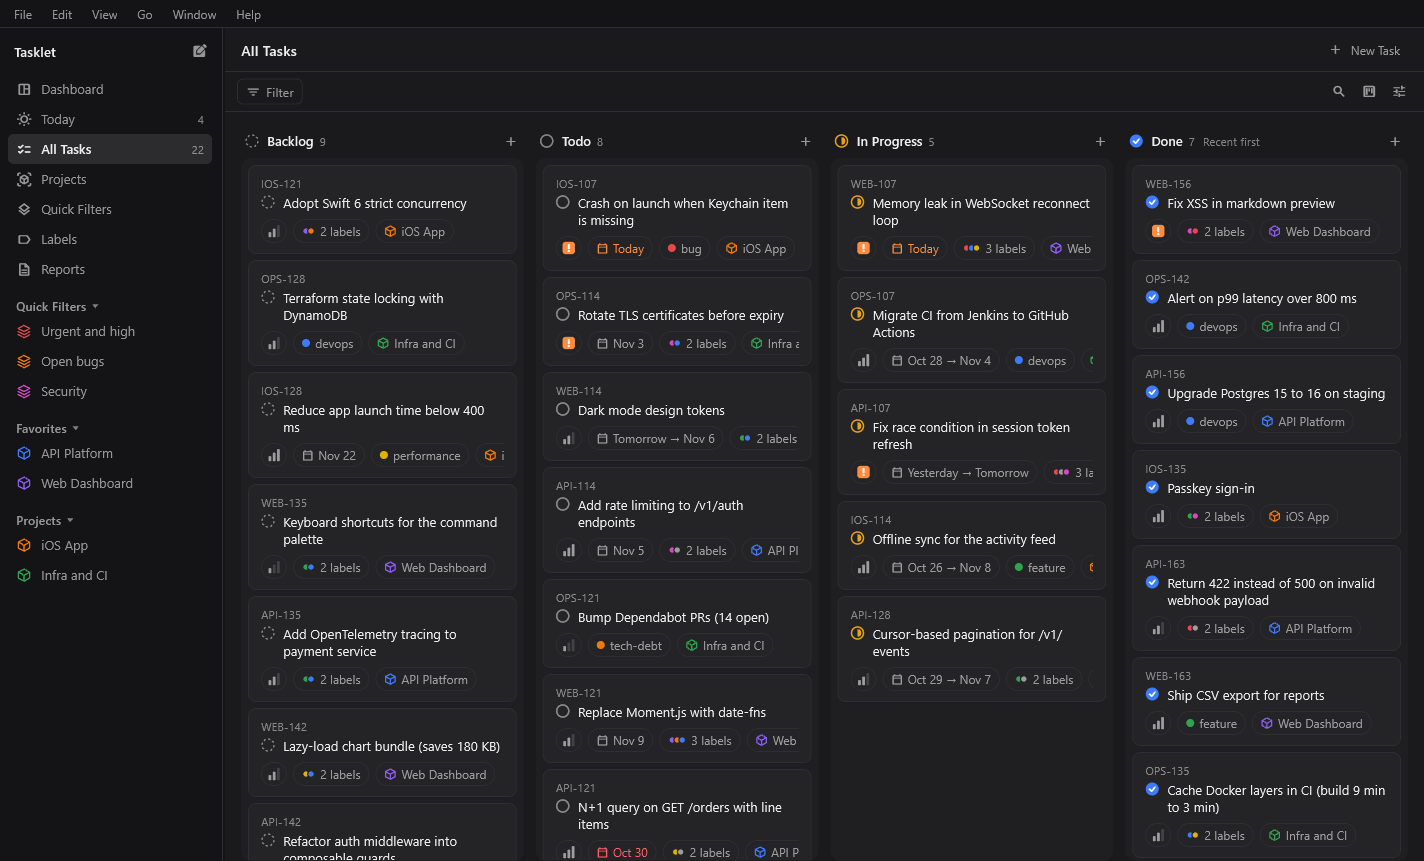
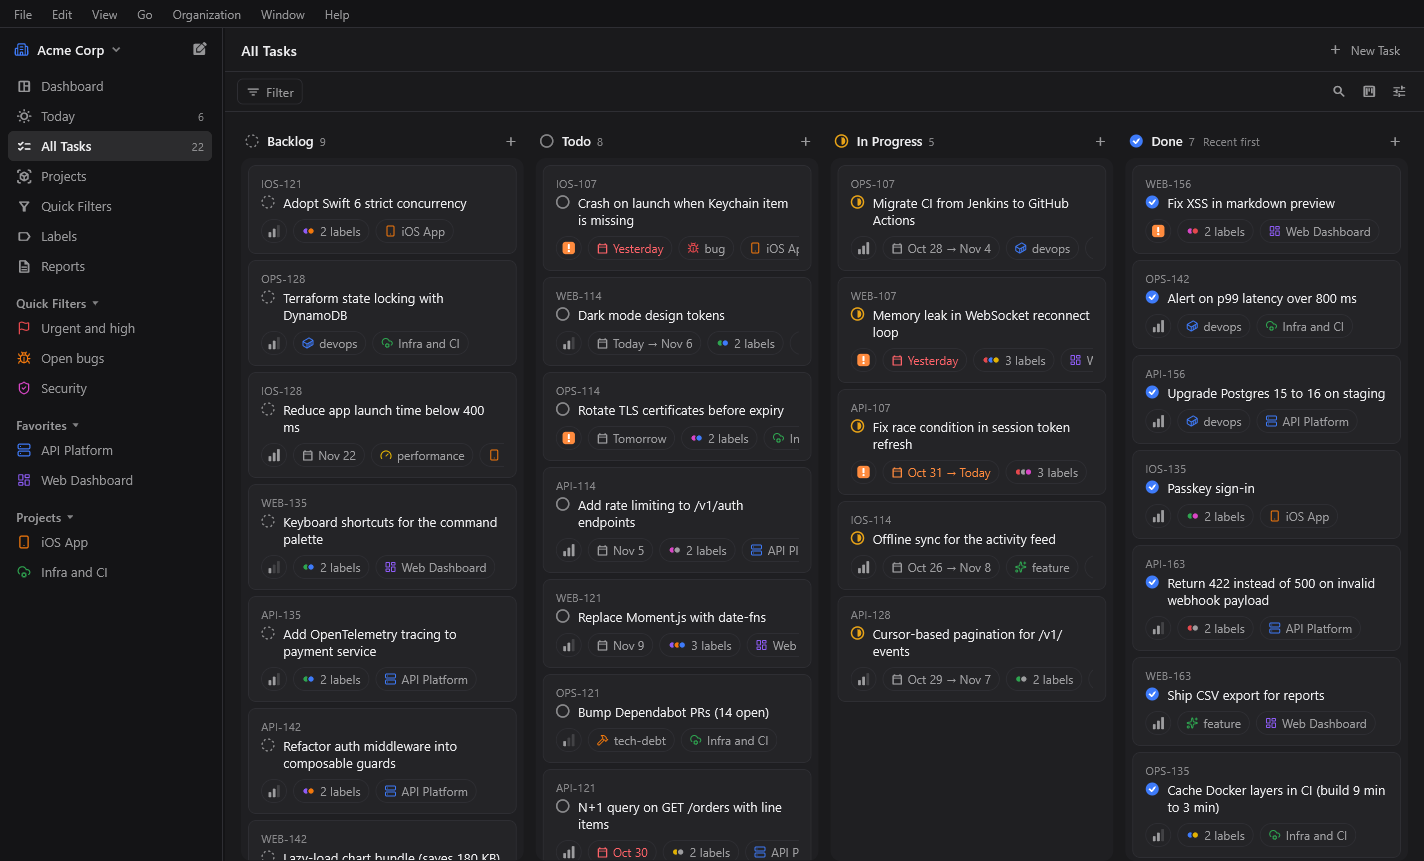
README screenshots and docs for 1.1
New screenshots from a demo workspace with project, label and quick-filter
icons: dashboard, All Tasks board, task panel, light list layout, New Task and
Reports, plus the organization menu and the icon picker. The README mentions
organizations in the intro, shows the new screenshots, the Organizations
settings tab, the tool/ folder and Lucide. DESIGN_SYSTEM lists 16 colors, the
glyph widgets and the icon picker instead of the removed color grid;
SYSTEM_DESIGN adds organizations and icons to its entity table; ROADMAP gets a
1.1 section and what's next.

diff --git a/README.md b/README.md
@@ -17,7 +17,7 @@
 </p>
 
 <p align="center">
-  <img src="docs/screenshots/board.png" alt="Tasklet board with Backlog, Todo, In Progress and Done columns" width="900">
+  <img src="docs/screenshots/board.png" alt="Tasklet All Tasks board with Backlog, Todo, In Progress and Done columns, project and label icons, and the organization switcher in the sidebar" width="900">
 </p>
 
 ---
@@ -26,7 +26,8 @@
 
 Tasklet is a single-player task tracker inspired by the speed and look of tools like Linear, but intentionally
 simpler: no teams, no assignees, no accounts. Everything you create (tasks, projects, labels and quick filters) is stored
-as plain JSON files in a folder on your computer.
+as plain JSON files in a folder on your computer. Keep separate folders as **organizations** (your employer, freelance
+clients, open source) and switch between them in one click.
 
 Put that folder inside OneDrive, Dropbox, Google Drive, iCloud Drive or Syncthing, and your tasks follow you between
 computers without any Tasklet server. If you stop using Tasklet one day, your data is still readable text.
@@ -42,6 +43,8 @@ planned.
 | **Dashboard:** what's overdue, due today and coming up, plus what you finished. | **Detail panel:** every property as a chip; title and description save as you type. |
 | ![Project list layout in the light theme with collapsible status sections](docs/screenshots/list-light.png) | ![New Task dialog with status, priority, dates, labels and project chips](docs/screenshots/new-task.png) |
 | **List layout and light theme:** compact rows grouped by status. | **New Task (Ctrl+N):** type a title, set properties with chips, press Enter. |
+| ![Organization menu listing Acme Corp, Freelance and Open Source with Ctrl+Alt shortcuts, plus New, Open Existing, Edit, Export and Import](docs/screenshots/organizations.png) | ![Icon picker with search, 16 colors and project-related icons grouped by category](docs/screenshots/icon-picker.png) |
+| **Organizations:** each one is its own folder; switch at the top of the sidebar or with Ctrl+Alt+1 … 9. | **Icons and colors:** about 640 project-related icons and 16 colors for projects, labels and quick filters. |
 | ![Export Report dialog with chart preview by status, priority and project](docs/screenshots/reports.png) | |
 | **Reports:** preview charts, then export a prompt for any AI assistant. | |
 
@@ -99,7 +102,7 @@ anywhere.
 ### Make it yours
 - Light, dark or automatic theme.
 - Reorder or hide sidebar items (Settings → Sidebar).
-- A separate Settings window with General, Sidebar, Notifications and Data tabs.
+- A separate Settings window with General, Sidebar, Notifications and Organizations tabs.
 
 ## Download and install
 
@@ -204,16 +207,18 @@ lib/
   data/       the only code that touches files: workspace store, save queue,
               folder watcher, device settings
   state/      app state with Riverpod: workspace controller, boards, clock, undo, reminders
-  ui/         theme, icons, sidebar, board and list, task dialog and panel, pages,
-              settings window
+  ui/         theme, glyphs and the icon catalog, sidebar and organization switcher, board and
+              list, task dialog and panel, pages, settings window
   platform/   menus and shortcuts, windows, tray, notifications, Recycle Bin
-test/         unit tests (core, data) and widget tests
-docs/         SPEC.md (product specification), DECISIONS.md, ROADMAP.md
+test/         unit tests (core, data, state) and widget tests
+tool/         benchmark (tool/bench) and the icon catalog generator (tool/icons)
+docs/         SPEC.md (product specification), DECISIONS.md, ROADMAP.md, DESIGN_SYSTEM.md,
+              SYSTEM_DESIGN.md, PERFORMANCE.md
 installer/    Inno Setup script for the Windows installer
 ```
 
 **Built with:** Flutter, Riverpod, go_router, window_manager, desktop_multi_window, tray_manager,
-flutter_local_notifications, file_picker and watcher.
+flutter_local_notifications, file_picker, watcher and [Lucide](https://lucide.dev) icons.
 
 ## Roadmap
 

diff --git a/docs/DESIGN_SYSTEM.md b/docs/DESIGN_SYSTEM.md
@@ -19,7 +19,7 @@ Read with `Tokens.of(context)`. Never write `Color(0x…)` outside `theme.dart` 
 | `tertiary` | meta text, placeholders, idle icons, disabled items |
 | `accent` | the one action color: primary buttons, focus, Done |
 | `danger`, `warning`, `success` | destructive actions, warnings, confirmations |
-| `named(TaskletColor)` | the 8 user colors for projects, labels and quick filters: dots, icons and fills, never body text |
+| `named(TaskletColor)` | the 16 user colors for projects, labels, quick filters and organizations: glyphs, dots and fills, never body text; each reaches 3:1 on every surface (darker shades in the light theme where needed) |
 
 **Contrast floors** (checked by `test/ui/design_system_test.dart` on every surface, both themes): primary ≥ 7:1,
 secondary ≥ 4.5:1, tertiary ≥ 3:1. Use tertiary only for text that is not needed to understand the screen.
@@ -43,6 +43,9 @@ These are the values in use; new code picks from them (a token group is planned,
 - **Radius:** 6 for buttons and controls, 8 for cards, rows and panels, 12 for the chip/pill shell.
 - **Heights:** chip 24, compact control 26, sidebar row 30, button 30, list row 38.
 - **Icons:** 12 (inline meta), 14 (default), 16 (emphasis), painted glyphs in `glyphs.dart` for status/priority.
+  Projects, labels, quick filters and organizations show a user-picked Lucide icon (catalog in `lib/ui/icons/`,
+  generated from `tool/icons/catalog.txt`) or their default glyph (cube, dot, funnel). Always draw them with
+  `ProjectGlyph`, `LabelGlyph`, `ViewGlyph` or `OrgGlyph`, never a raw icon.
 - **Spacing:** multiples of 4 (4, 8, 12, 16, 24); 6 is allowed for tight icon-to-label gaps.
 - **Borders:** always 1px `border`; no shadows on resting elements in dark mode.
 - **Motion:** 120 ms for hover/fades, 200 ms for panels and drops, `Curves.easeOutCubic`. Respect
@@ -51,8 +54,9 @@ These are the values in use; new code picks from them (a token group is planned,
 ## Components
 
 Reuse before building: `PropChip` (the single 24 px chip shell for every property), `IconBtn` (icon-only button,
-always with a tooltip), `PillToggle`, `menuItem` / `colorSubmenu` / `ColorGrid`, `ListRowShell`, `PageScaffold`,
-`EmptyState`, `NoticeBanner`, `confirmDestructive`. A second implementation of any of these is a bug.
+always with a tooltip), `PillToggle`, `menuItem`, `IconPickerButton` / `iconMenuItem` / `showIconPicker` (icon and
+color), `ListRowShell`, `PageScaffold`, `EmptyState`, `NoticeBanner`, `confirmDestructive`. A second implementation of
+any of these is a bug.
 
 States every interactive element needs: hover, selected (if applicable), disabled (tertiary text, no hover),
 **keyboard focus** (accent ring; not yet consistent, see TODO), and a tooltip or label for screen readers.

diff --git a/docs/SYSTEM_DESIGN.md b/docs/SYSTEM_DESIGN.md
@@ -111,12 +111,13 @@ sequenceDiagram
 | Entity | Where | Notes |
 |---|---|---|
 | Task | inside its project file | id, number, title, description, status, priority, start/due date, labelIds, sortOrder, created/updated/completedAt, `extra` |
-| Project | `projects/<id>.json` | key, color, archived, favorite, orders, own labels, nextNumber, tasks, opaque entries |
+| Organization | the data folder; identity in `tasklet-workspace.json` | name, icon, color; one open at a time (DECISIONS D15) |
+| Project | `projects/<id>.json` | key, color, icon, archived, favorite, orders, own labels, nextNumber, tasks, opaque entries |
 | No Project bucket | `projects/no-project.json` | lazy file, key TSK |
-| Label | `labels.json` (workspace) or in a project | 8 colors |
-| Quick filter (SavedView) | `views.json` | filters + display, sidebar pin/order |
+| Label | `labels.json` (workspace) or in a project | 16 colors, optional icon |
+| Quick filter (SavedView) | `views.json` | filters + display, sidebar pin/order, color and icon |
 | Status, Priority | enums | 4 statuses, 5 priorities |
-| Device settings | app-data `settings.json` | theme, sidebar, reminders, per-board display |
+| Device settings | app-data `settings.json` | theme, sidebar, reminders, per-board display, this computer's organization list |
 | Backups | app-data `backups/` | file versions, newest 20 |
 
 Not present today (candidate entities from the brief): subtasks, recurring tasks, attachments, task history, tags
@@ -475,7 +476,7 @@ edit is slow on any service, independent of Tasklet's speed.
 |---|---|---|---|
 | Merge logic bug loses or duplicates tasks | medium | high | pure core function, property tests with random edit sequences, backups before every merge write |
 | Refactor of `WorkspaceController` regresses behaviour | medium | medium | do it before features; widget/unit tests per action; no behaviour change in the same commit |
-| v2 index drifts from JSON | medium | medium (wrong counts) | index is disposable; stamp check per file; `quick_check`; rebuild button in Settings > Data |
+| v2 index drifts from JSON | medium | medium (wrong counts) | index is disposable; stamp check per file; `quick_check`; rebuild button in Settings > Organizations |
 | Native SQLite bundling issues on macOS/Windows | low | medium | `package:sqlite3` build hooks; CI build on both |
 | Chunked file format breaks older versions | certain (by design) | medium | format version bump makes old versions read-only (D2), migration with backup |
 | Over-engineering | medium | medium | every phase has a measured trigger and acceptance number |

diff --git a/docs/ROADMAP.md b/docs/ROADMAP.md
@@ -20,6 +20,22 @@ milestone's behavior working. Section numbers refer to [SPEC.md](SPEC.md).
 - [x] **10. What's New + menu bar + shortcuts + accessibility pass** (§12, §13)
 - [ ] **11. macOS hardening**: PlatformMenuBar, notification permission, dock reopen, signing/notarization
 
+## v1.1, released November 2026
+
+- [x] **Organizations**: one data folder each, switcher, Organization menu, Ctrl+Alt+1 … 9, Settings tab, move a
+      project between organizations, export and import (DECISIONS D15)
+- [x] **Icons and 16 colors** for projects, labels and quick filters (D14)
+- [x] **Starter content** in new organizations: labels, quick filters, and a sample project in the first (D16)
+- [x] **Merging edits from two computers**, local backups and Restore Previous Version (D12, D13)
+- [x] **Performance**: incremental reads, patched boards, faster search, dashboard and reports at 100k tasks
+      ([PERFORMANCE.md](PERFORMANCE.md))
+
+## Next
+
+- [ ] Smoother dragging, searchable pickers and a frame-time test
+- [ ] Stress runs at 100,000 and 500,000 tasks; Help → Export Diagnostics
+- [ ] Code-signed Windows installer; macOS release (milestone 11)
+
 ## Phase 2, iOS + Android
 
 Reuse `lib/core/` and `lib/state/` unchanged. Adaptive shell (drawer sidebar, full-screen detail, Settings as a page,
